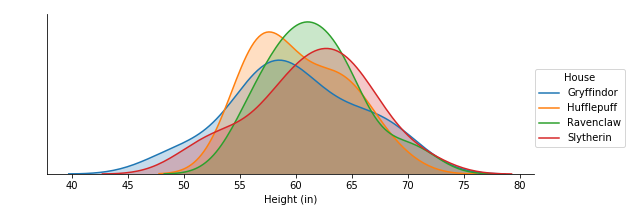
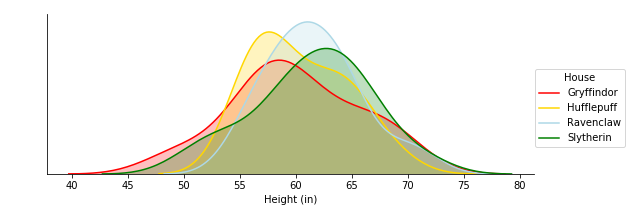
updated colors; zebra func

diff --git a/sortinghat_functions.py b/sortinghat_functions.py
@@ -1,5 +1,6 @@
 import numpy as np
 import pandas as pd
+import matplotlib.pyplot as plt
 
 __author__ = 'Michael Silverstein'
 
@@ -50,3 +51,19 @@ def rescale(x, axis=0):
     """
     rescaled = (x - x.min(axis))/(x.max(axis) - x.min(axis))
     return rescaled
+
+def zebra(ax=None, color='gray', alpha=.3, zorder=0, **kwargs):
+    """
+    Stripe figure - Color every other x position with `fill_between()`
+    If no ax provided, use current ax
+    """
+    if not ax:
+        ax = plt.gca()
+    # Choose x positions to color
+    xs = ax.get_xticks()[::2]
+    ylim = ax.get_ylim()
+    kwargs.update({'color': color, 'alpha': alpha, 'zorder': zorder})
+    for x in xs:
+        ax.fill_between((x - .5, x + .5), ylim[0], ylim[1], **kwargs)
+    ax.set_ylim(ylim)
+    return ax
